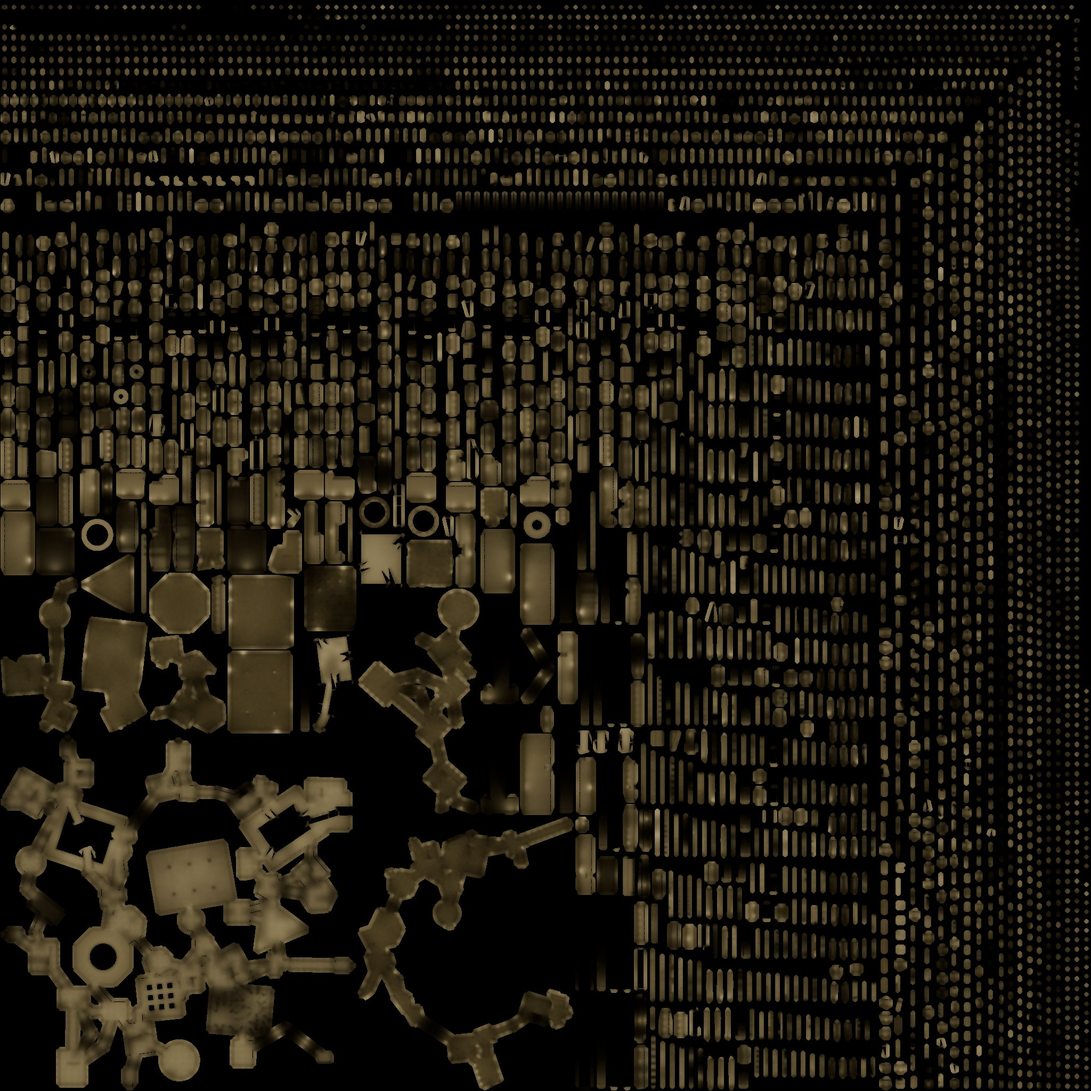
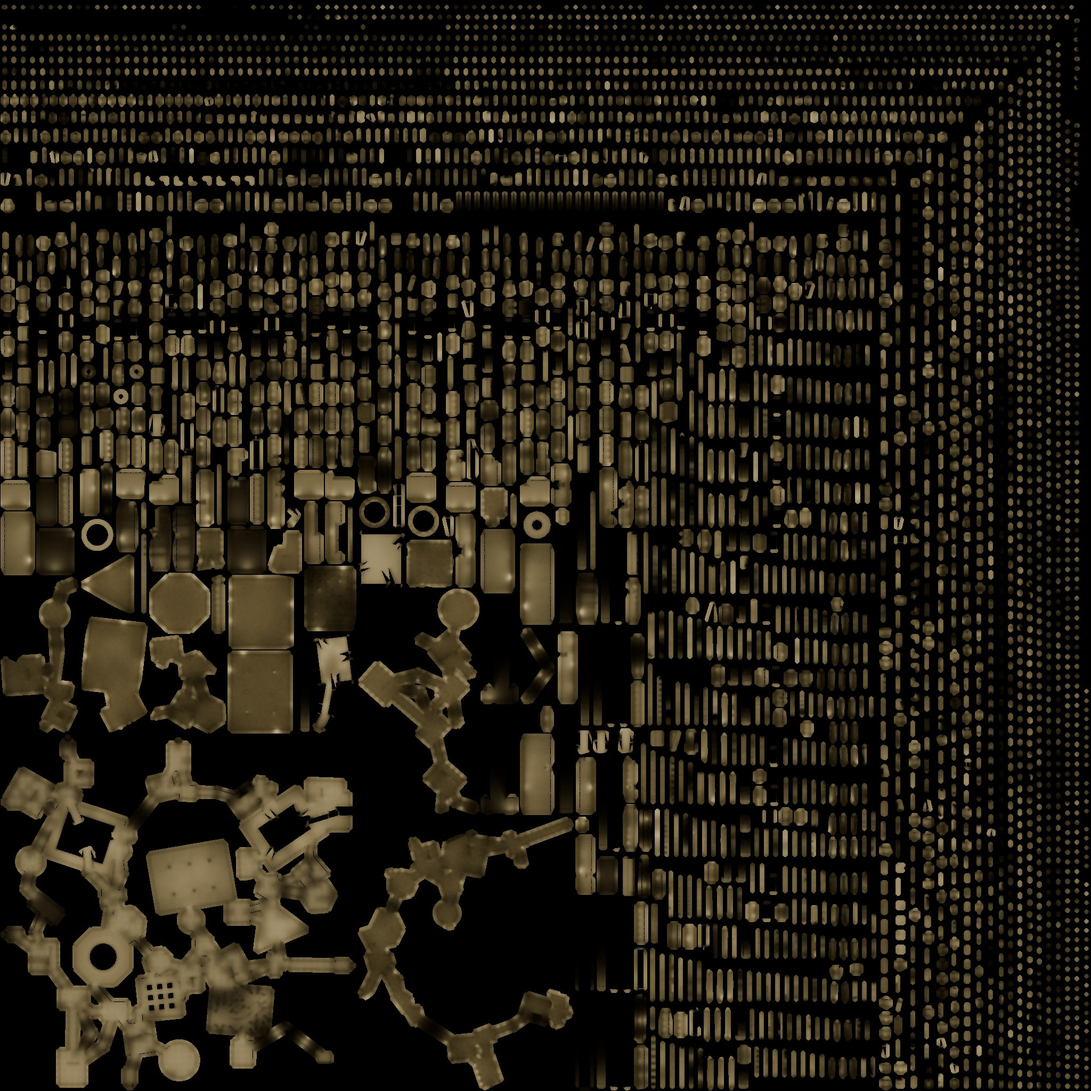
fix(hub): lumière précalculée plus forte (50 W par dalle) pour des néons moins nombreux et plus espacés

diff --git a/portfolio/tools/blender/bake.py b/portfolio/tools/blender/bake.py
@@ -7,7 +7,7 @@ black corners elsewhere. Baked once in Cycles, the light is soft, falls off alon
 the ceiling, and costs the game one texture read.
 
 Used by skin.py (skip with SKIN_BAKE=0). Settings, from the environment: BAKE_SIZE (2048), BAKE_SAMPLES (256),
-BAKE_WATTS (power of one 60 cm tile, 35), BAKE_SMOOTH (denoise blur, px, 1.5). Output: public/hub/models/skins/<skin>-light.jpg, read on the model's second UV
+BAKE_WATTS (power of one 60 cm tile, 50), BAKE_SMOOTH (denoise blur, px, 1.5). Output: public/hub/models/skins/<skin>-light.jpg, read on the model's second UV
 set ("lightmap", TEXCOORD_1). Stored in sRGB, divided by SCALE so values up to SCALE (light brighter than white paper
 under it) survive 8 bits: the game multiplies back (archi/Skin.tsx, LIGHTMAP_SCALE).
 """
@@ -22,7 +22,8 @@ import lib
 SCALE = 6.0  # keep in step with LIGHTMAP_SCALE in archi/Skin.tsx
 SIZE = int(os.environ.get("BAKE_SIZE", "2048"))  # ~10 cm a texel over the Lobby: light is smooth
 SAMPLES = int(os.environ.get("BAKE_SAMPLES", "256"))
-WATTS = float(os.environ.get("BAKE_WATTS", "35"))
+# 50 W a tile: fewer, better spaced lights since 2026-11-23 (a tube every 3 m) need more each to light as before
+WATTS = float(os.environ.get("BAKE_WATTS", "50"))
 SMOOTH = float(os.environ.get("BAKE_SMOOTH", "1.5"))  # px, gaussian sigma of the denoise
 # how much light each kind of surface sends back (its texture's mean colour, roughly): only the bounce depends on it
 ALBEDO = {"f": 0.42, "w": 0.62, "c": 0.7, "trim": 0.12, "beam": 0.7}
